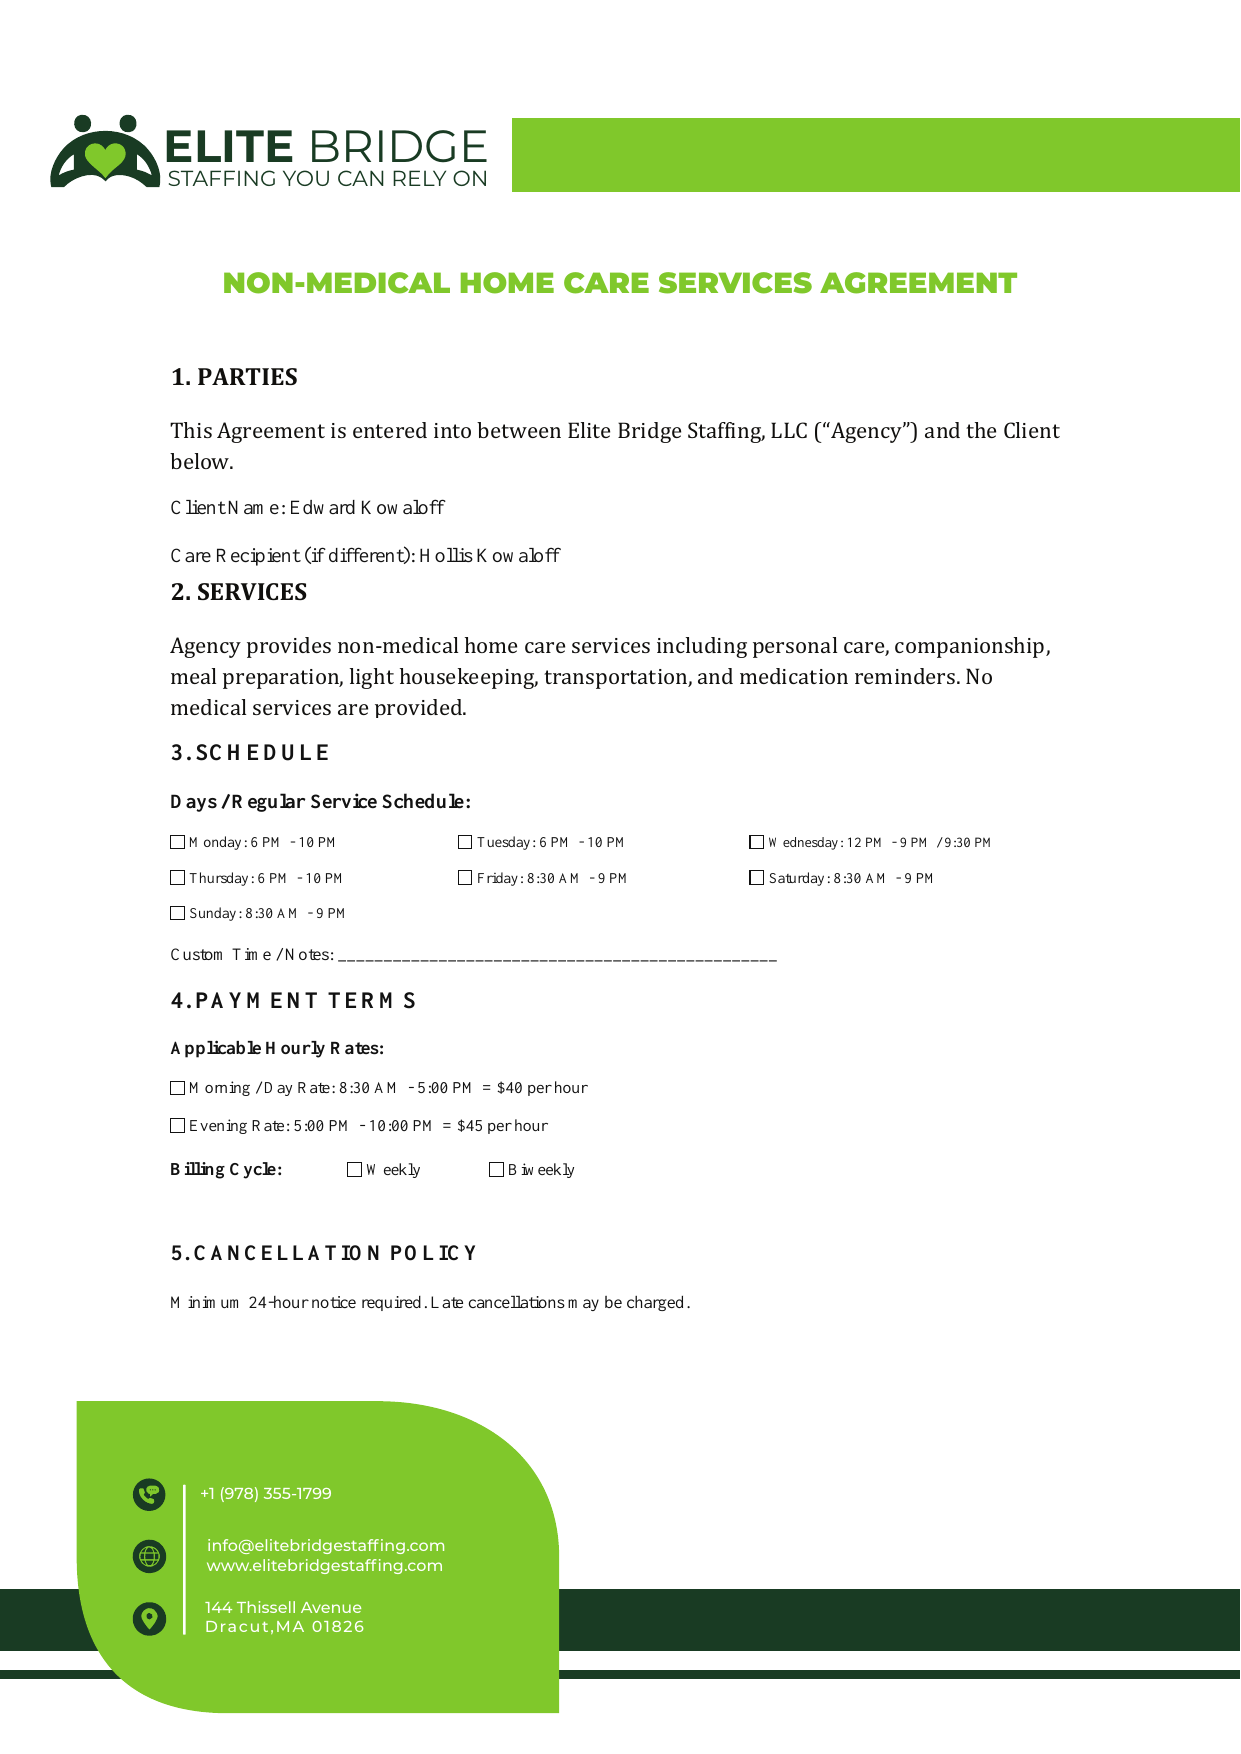
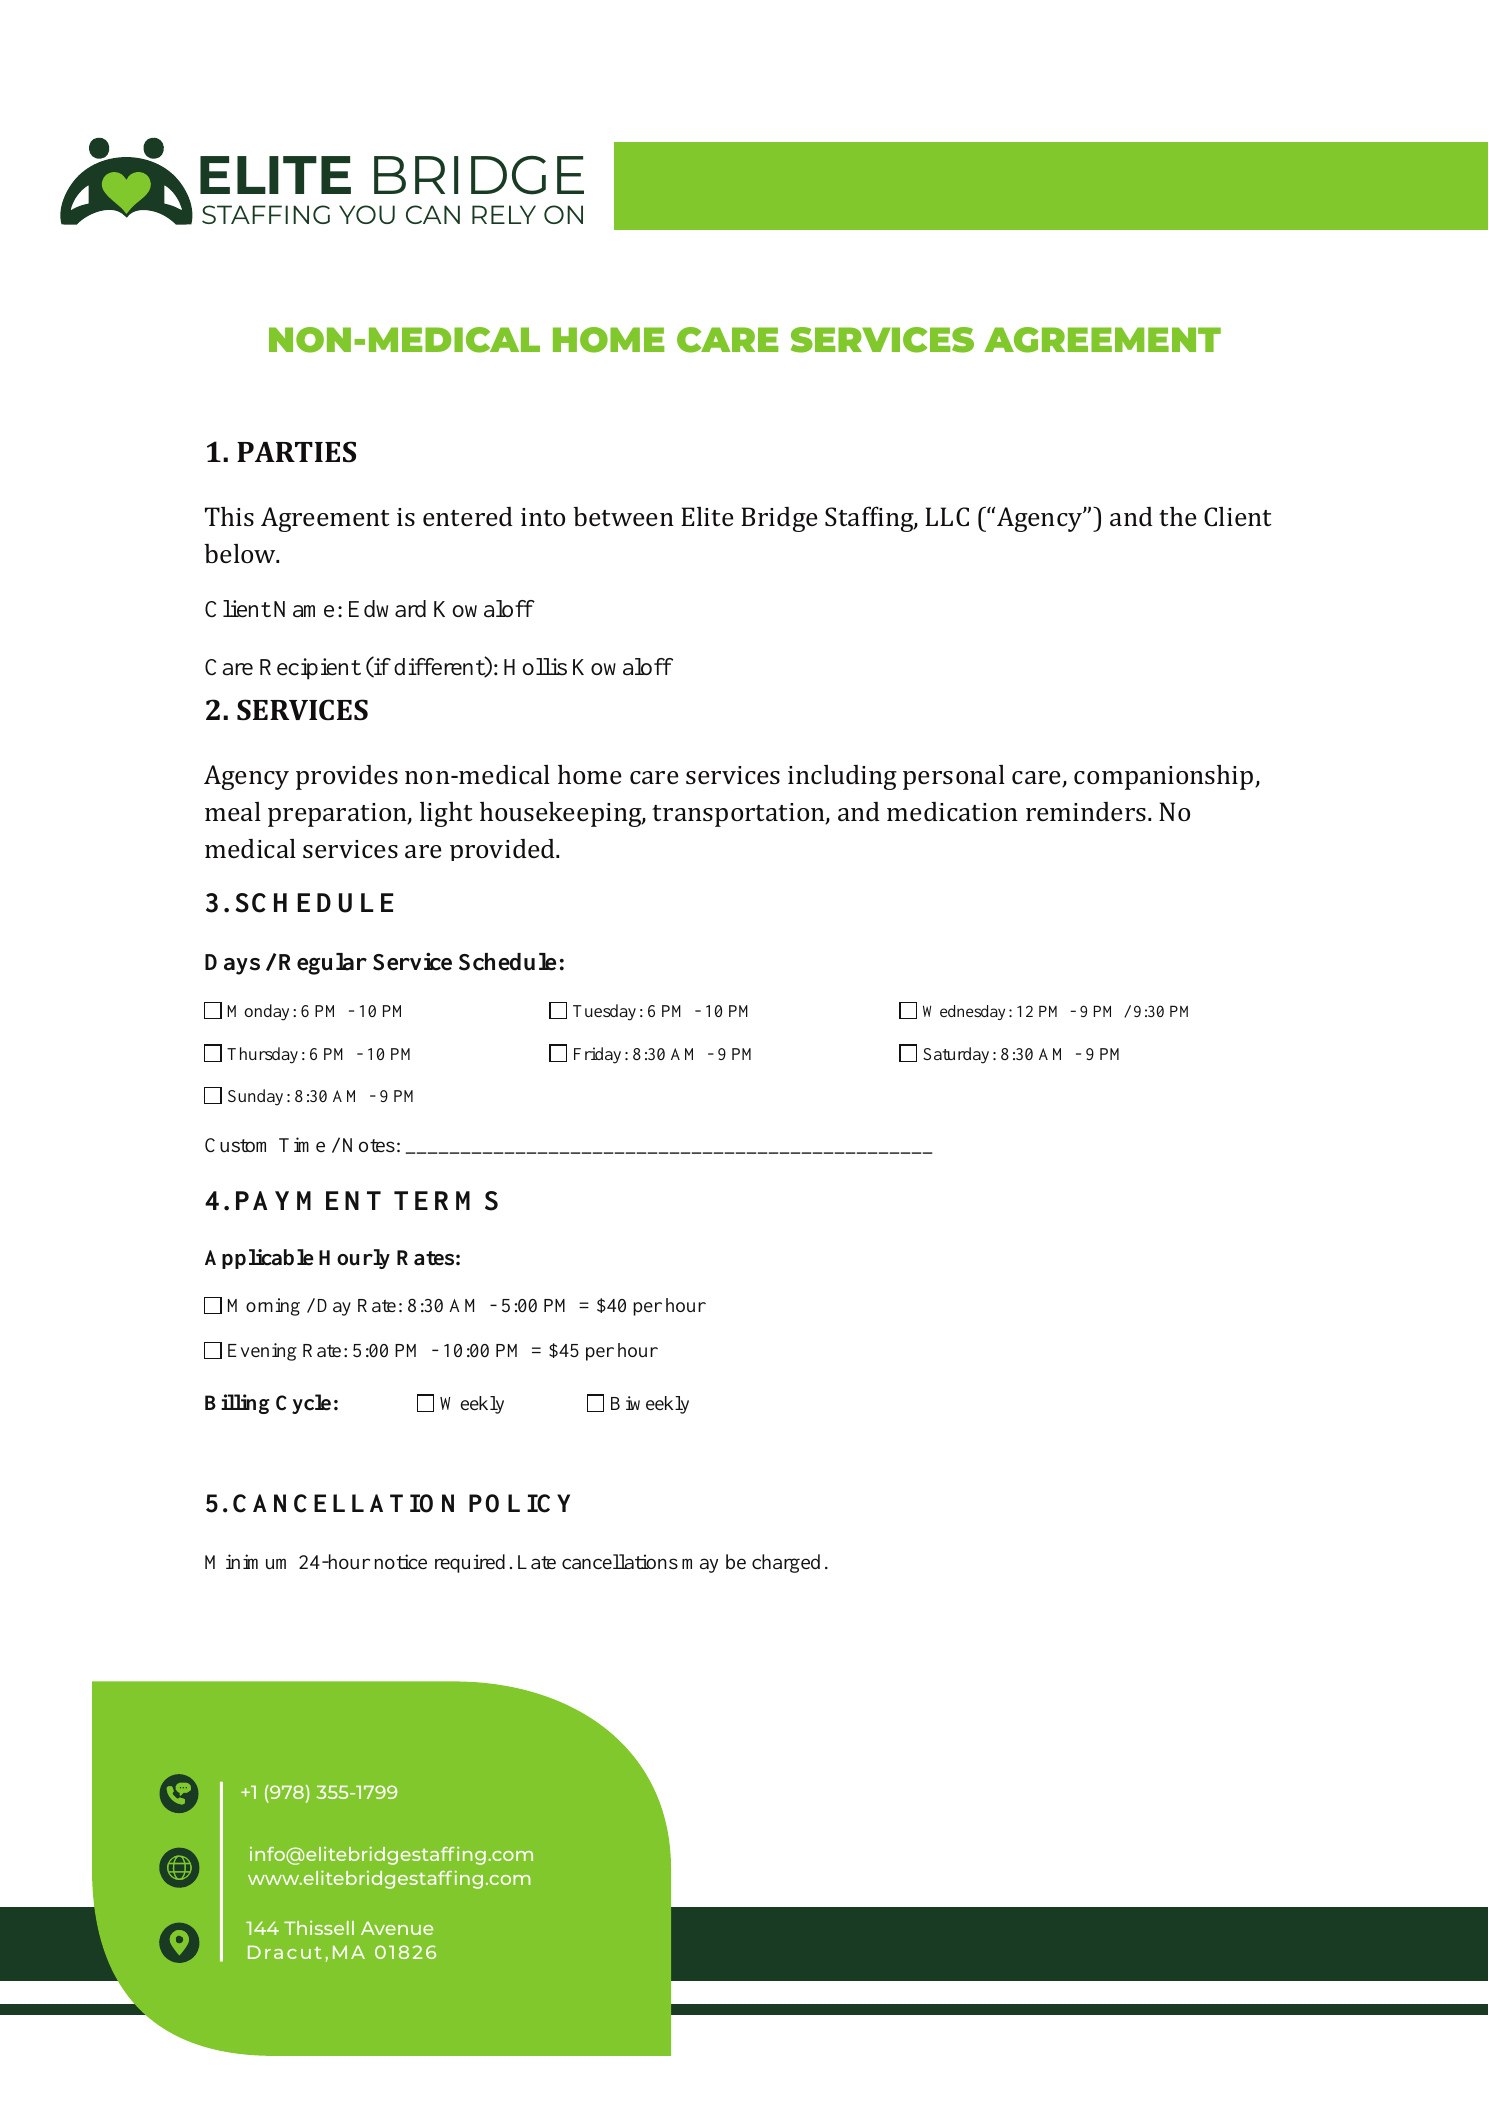
Restore original contract template design

diff --git a/dashboard.js b/dashboard.js
@@ -136,10 +136,6 @@
     return document.querySelector(`input[name="contractRates"][value="${value}"]:checked`) ? '✓' : '';
   }
 
-  function contractBox(name, value) {
-    return document.querySelector(`input[name="${name}"][value="${value}"]:checked`) ? 'is-checked' : '';
-  }
-
   function renderContractPreview() {
     const preview = document.getElementById('contractPreview');
     if (!preview) return;
@@ -155,88 +151,43 @@
     const agencyDate = formatContractDateOrBlank(contractFieldValue('contractAgencyDate', ''));
 
     preview.innerHTML = `
-      <section class="contract-template-page clean-contract-page" aria-label="Contract page 1">
-        <div class="clean-contract-header">
-          <img src="/elite-bridge-logo.png" alt="Elite Bridge Staffing">
-          <span></span>
-        </div>
-        <h2>NON-MEDICAL HOME CARE SERVICES AGREEMENT</h2>
-        <div class="clean-contract-body">
-          <h3>1. PARTIES</h3>
-          <p>This Agreement is entered into between Elite Bridge Staffing, LLC ("Agency") and the Client below.</p>
-          <p class="contract-fill-row"><strong>Client Name:</strong><span>${escapeHtml(clientName)}</span></p>
-          <p class="contract-fill-row"><strong>Care Recipient:</strong><span>${escapeHtml(careRecipient)}</span></p>
-
-          <h3>2. SERVICES</h3>
-          <p>Agency provides non-medical home care services including personal care, companionship, meal preparation, light housekeeping, transportation, and medication reminders. No medical services are provided.</p>
-
-          <h3>3. SCHEDULE</h3>
-          <p><strong>Days / Regular Service Schedule:</strong></p>
-          <div class="contract-checkbox-grid">
-            <span><i class="${contractBox('contractDays', 'Monday')}"></i> Monday</span>
-            <span><i class="${contractBox('contractDays', 'Tuesday')}"></i> Tuesday</span>
-            <span><i class="${contractBox('contractDays', 'Wednesday')}"></i> Wednesday</span>
-            <span><i class="${contractBox('contractDays', 'Thursday')}"></i> Thursday</span>
-            <span><i class="${contractBox('contractDays', 'Friday')}"></i> Friday</span>
-            <span><i class="${contractBox('contractDays', 'Saturday')}"></i> Saturday</span>
-            <span><i class="${contractBox('contractDays', 'Sunday')}"></i> Sunday</span>
-          </div>
-          <p class="contract-fill-row"><strong>Start Date:</strong><span>${escapeHtml(startDate)}</span></p>
-
-          <h3>4. PAYMENT TERMS</h3>
-          <p><strong>Applicable Hourly Rates:</strong></p>
-          <div class="contract-rate-grid">
-            <span><i class="${contractBox('contractRates', 'Morning')}"></i> Morning / Day Rate:</span>
-            <span class="contract-amount">${escapeHtml(dayRate)}</span>
-            <span><i class="${contractBox('contractRates', 'Evening')}"></i> Evening Rate:</span>
-            <span class="contract-amount">${escapeHtml(eveningRate)}</span>
-          </div>
-          <p class="contract-billing"><strong>Billing Cycle:</strong> <span><i class="${contractBox('contractBilling', 'Weekly')}"></i> Weekly</span> <span><i class="${contractBox('contractBilling', 'Biweekly')}"></i> Biweekly</span></p>
-
-          <h3>5. CANCELLATION POLICY</h3>
-          <p>Minimum 24-hour notice required. Late cancellations may be charged.</p>
-        </div>
-        <div class="clean-contract-footer">
-          <div><strong>+1 (978) 355-1799</strong><br>info@elitebridgestaffing.com<br>www.elitebridgestaffing.com<br>144 Thissell Avenue<br>Dracut, MA 01826</div>
-        </div>
+      <section class="contract-template-page" aria-label="Contract page 1">
+        <img src="/elite-contract-template-1.png" alt="Elite Bridge contract page 1">
+        <span class="template-cover cover-client"></span>
+        <span class="template-cover cover-recipient"></span>
+        <span class="template-cover cover-mon"></span>
+        <span class="template-cover cover-tue"></span>
+        <span class="template-cover cover-wed"></span>
+        <span class="template-cover cover-thu"></span>
+        <span class="template-cover cover-fri"></span>
+        <span class="template-cover cover-sat"></span>
+        <span class="template-cover cover-sun"></span>
+        <span class="template-cover cover-custom"></span>
+        <span class="template-value value-client">${escapeHtml(clientName)}</span>
+        <span class="template-value value-recipient">${escapeHtml(careRecipient)}</span>
+        <span class="template-value value-start">${escapeHtml(startDate)}</span>
+        <span class="template-mark mark-mon">${contractCheckmark('contractDays', 'Monday')}</span>
+        <span class="template-mark mark-tue">${contractCheckmark('contractDays', 'Tuesday')}</span>
+        <span class="template-mark mark-wed">${contractCheckmark('contractDays', 'Wednesday')}</span>
+        <span class="template-mark mark-thu">${contractCheckmark('contractDays', 'Thursday')}</span>
+        <span class="template-mark mark-fri">${contractCheckmark('contractDays', 'Friday')}</span>
+        <span class="template-mark mark-sat">${contractCheckmark('contractDays', 'Saturday')}</span>
+        <span class="template-mark mark-sun">${contractCheckmark('contractDays', 'Sunday')}</span>
+        <span class="template-mark mark-morning">${rateCheckmark('Morning')}</span>
+        <span class="template-mark mark-evening">${rateCheckmark('Evening')}</span>
+        <span class="template-mark mark-weekly">${contractCheckmark('contractBilling', 'Weekly')}</span>
+        <span class="template-mark mark-biweekly">${contractCheckmark('contractBilling', 'Biweekly')}</span>
+        <span class="template-cover cover-day-rate"></span>
+        <span class="template-cover cover-evening-rate"></span>
+        <span class="template-value value-day-rate">${escapeHtml(dayRate)}</span>
+        <span class="template-value value-evening-rate">${escapeHtml(eveningRate)}</span>
       </section>
-      <section class="contract-template-page clean-contract-page" aria-label="Contract page 2">
-        <div class="clean-contract-header">
-          <img src="/elite-bridge-logo.png" alt="Elite Bridge Staffing">
-          <span></span>
-        </div>
-        <h2>NON-MEDICAL HOME CARE SERVICES AGREEMENT</h2>
-        <div class="clean-contract-body page-two">
-          <h3>6. LIABILITY</h3>
-          <p>Agency liability is limited to fees paid in the last 30 days. No liability for indirect damages.</p>
-
-          <h3>7. INDEMNIFICATION</h3>
-          <p>Client agrees to indemnify Agency against claims arising from unsafe conditions or misuse of services.</p>
-
-          <h3>8. NON-SOLICITATION</h3>
-          <p>Client shall not hire caregiver directly for 12 months. Violation fee: $5,000 or 3 months service value.</p>
-
-          <h3>9. SAFETY</h3>
-          <p>Client must provide a safe environment. Agency may remove caregiver if unsafe.</p>
-
-          <h3>10. TERMINATION</h3>
-          <p>Either party may terminate this agreement with 30 days' written notice.</p>
-          <p>Agency may terminate services immediately for breach of this agreement, non-payment, unsafe conditions, or any situation that prevents safe delivery of care. Client remains responsible for services provided and approved charges up to the termination date.</p>
-
-          <h3>11. GOVERNING LAW</h3>
-          <p>This agreement is governed by Massachusetts law.</p>
-
-          <h3>SIGNATURES</h3>
-          <div class="clean-signature-grid">
-            <div><strong>Client Signature:</strong><span class="signature-line script-signature">${escapeHtml(clientSigner)}</span></div>
-            <div><strong>Date:</strong><span class="signature-line">${escapeHtml(clientDate)}</span></div>
-            <div><strong>Agency Representative:</strong><span class="signature-line script-signature">${escapeHtml(agencySigner)}</span></div>
-            <div><strong>Date:</strong><span class="signature-line">${escapeHtml(agencyDate)}</span></div>
-          </div>
-        </div>
-        <div class="clean-contract-footer">
-          <div><strong>+1 (978) 355-1799</strong><br>info@elitebridgestaffing.com<br>www.elitebridgestaffing.com<br>144 Thissell Avenue<br>Dracut, MA 01826</div>
-        </div>
+      <section class="contract-template-page" aria-label="Contract page 2">
+        <img src="/elite-contract-template-2.png" alt="Elite Bridge contract page 2">
+        <span class="template-signature sig-client">${escapeHtml(clientSigner)}</span>
+        <span class="template-value date-client">${escapeHtml(clientDate)}</span>
+        <span class="template-signature sig-agency">${escapeHtml(agencySigner)}</span>
+        <span class="template-value date-agency">${escapeHtml(agencyDate)}</span>
       </section>
     `;
   }

diff --git a/app-shell.css b/app-shell.css
@@ -696,15 +696,23 @@ a { color: inherit; }
   white-space: nowrap;
 }
 
-.cover-client { left: 13.2%; top: 28.35%; width: 34%; height: 1.8%; }
-.cover-recipient { left: 13.2%; top: 31.0%; width: 35%; height: 1.8%; }
-.cover-day-rate { left: 39.3%; top: 62.05%; width: 8%; height: 1.25%; }
-.cover-evening-rate { left: 37.8%; top: 64.25%; width: 8%; height: 1.25%; }
-.value-client { left: 24.0%; top: 28.6%; }
-.value-recipient { left: 31.0%; top: 31.25%; }
+.cover-client { left: 13.2%; top: 28.35%; width: 38%; height: 1.8%; }
+.cover-recipient { left: 13.2%; top: 31.0%; width: 40%; height: 1.8%; }
+.cover-day-rate { left: 32.8%; top: 61.75%; width: 20%; height: 1.6%; }
+.cover-evening-rate { left: 29.0%; top: 63.95%; width: 20%; height: 1.6%; }
+.cover-mon { left: 15.4%; top: 47.35%; width: 17%; height: 1.7%; }
+.cover-tue { left: 38.7%; top: 47.35%; width: 17%; height: 1.7%; }
+.cover-wed { left: 62.1%; top: 47.35%; width: 28%; height: 1.7%; }
+.cover-thu { left: 15.4%; top: 49.45%; width: 17%; height: 1.7%; }
+.cover-fri { left: 38.7%; top: 49.45%; width: 17%; height: 1.7%; }
+.cover-sat { left: 62.1%; top: 49.45%; width: 17%; height: 1.7%; }
+.cover-sun { left: 15.4%; top: 51.48%; width: 17%; height: 1.7%; }
+.cover-custom { left: 13.2%; top: 53.5%; width: 52%; height: 1.7%; }
+.value-client { left: 24.2%; top: 28.6%; }
+.value-recipient { left: 33.5%; top: 31.25%; }
 .value-start { left: 23.3%; top: 45.25%; }
-.value-day-rate { left: 39.8%; top: 62.05%; }
-.value-evening-rate { left: 38.35%; top: 64.25%; }
+.value-day-rate { left: 37.5%; top: 62.02%; }
+.value-evening-rate { left: 34.0%; top: 64.22%; }
 .mark-mon { left: 13.78%; top: 47.82%; }
 .mark-tue { left: 37.0%; top: 47.82%; }
 .mark-wed { left: 60.45%; top: 47.82%; }
@@ -720,172 +728,6 @@ a { color: inherit; }
 .date-client { left: 55.6%; top: 73.25%; }
 .sig-agency { left: 30.0%; top: 76.18%; }
 .date-agency { left: 55.6%; top: 76.22%; }
-
-.clean-contract-page {
-  aspect-ratio: 210 / 297;
-  box-sizing: border-box;
-  color: #161616;
-  display: flex;
-  flex-direction: column;
-  font-family: Cambria, Georgia, "Times New Roman", serif;
-  overflow: hidden;
-  padding: 54px 70px 0;
-}
-
-.clean-contract-header {
-  align-items: center;
-  display: grid;
-  gap: 24px;
-  grid-template-columns: 290px 1fr;
-  margin: 0 -70px 50px 0;
-}
-
-.clean-contract-header img {
-  display: block;
-  height: auto;
-  width: 290px;
-}
-
-.clean-contract-header span {
-  background: #7bd11f;
-  display: block;
-  height: 46px;
-}
-
-.clean-contract-page h2 {
-  color: #7bd11f;
-  font-family: Montserrat, Inter, Arial, sans-serif;
-  font-size: clamp(16px, 2vw, 28px);
-  font-weight: 900;
-  letter-spacing: 0.02em;
-  margin: 0 0 38px;
-  text-align: center;
-}
-
-.clean-contract-body {
-  flex: 1;
-  font-size: clamp(10px, 1.17vw, 18px);
-  line-height: 1.32;
-}
-
-.clean-contract-body h3 {
-  color: #1d1d1d;
-  font-family: Cambria, Georgia, "Times New Roman", serif;
-  font-size: 1.12em;
-  font-weight: 800;
-  letter-spacing: 0.08em;
-  margin: 16px 0 12px;
-  text-transform: uppercase;
-}
-
-.clean-contract-body p {
-  margin: 0 0 12px;
-}
-
-.contract-fill-row {
-  align-items: end;
-  display: grid;
-  gap: 8px;
-  grid-template-columns: max-content 1fr;
-  max-width: 560px;
-}
-
-.contract-fill-row span,
-.signature-line,
-.contract-amount {
-  border-bottom: 1px solid #333;
-  display: inline-block;
-  min-height: 1.2em;
-  padding: 0 6px 1px;
-}
-
-.contract-checkbox-grid {
-  display: grid;
-  gap: 10px 24px;
-  grid-template-columns: repeat(3, 1fr);
-  margin: 10px 0 16px;
-}
-
-.contract-checkbox-grid span,
-.contract-rate-grid span,
-.contract-billing span {
-  align-items: center;
-  display: inline-flex;
-  gap: 6px;
-}
-
-.contract-checkbox-grid i,
-.contract-rate-grid i,
-.contract-billing i {
-  border: 1.5px solid #222;
-  display: inline-grid;
-  font-style: normal;
-  height: 12px;
-  line-height: 1;
-  place-items: center;
-  width: 12px;
-}
-
-.contract-checkbox-grid i.is-checked::after,
-.contract-rate-grid i.is-checked::after,
-.contract-billing i.is-checked::after {
-  content: "X";
-  font-family: Arial, sans-serif;
-  font-size: 9px;
-  font-weight: 900;
-}
-
-.contract-rate-grid {
-  display: grid;
-  gap: 10px 14px;
-  grid-template-columns: max-content 150px;
-  margin: 10px 0 14px;
-}
-
-.contract-billing {
-  display: flex;
-  flex-wrap: wrap;
-  gap: 18px;
-}
-
-.clean-signature-grid {
-  display: grid;
-  gap: 22px 28px;
-  grid-template-columns: 1fr 180px;
-  margin-top: 28px;
-}
-
-.clean-signature-grid div {
-  align-items: end;
-  display: grid;
-  gap: 8px;
-  grid-template-columns: max-content 1fr;
-}
-
-.clean-contract-footer {
-  background: #7bd11f;
-  border-bottom: 38px solid #103f29;
-  border-radius: 0 160px 0 0;
-  color: #fff;
-  font-family: Montserrat, Inter, Arial, sans-serif;
-  font-size: clamp(9px, 1vw, 15px);
-  line-height: 1.32;
-  margin-left: -42px;
-  min-height: 150px;
-  padding: 42px 34px 24px 110px;
-  position: relative;
-  width: 360px;
-}
-
-.clean-contract-footer::after {
-  background: #103f29;
-  bottom: -38px;
-  content: "";
-  height: 38px;
-  left: 360px;
-  position: absolute;
-  width: 900px;
-}
 
 .contract-empty-state {
   display: grid;

diff --git a/employer-dashboard.html b/employer-dashboard.html
@@ -6,7 +6,7 @@
   <meta name="theme-color" content="#063e2c">
   <meta name="description" content="Elite Bridge employer workspace for care shifts, caregivers, attendance, messages and payroll.">
   <title>Employer workspace | Elite Bridge</title>
-  <link rel="stylesheet" href="/app-shell.css?v=clean-contract-20261001">
+  <link rel="stylesheet" href="/app-shell.css?v=contract-original-20261001">
 </head>
 <body data-role="employer">
   <div class="app-frame">
